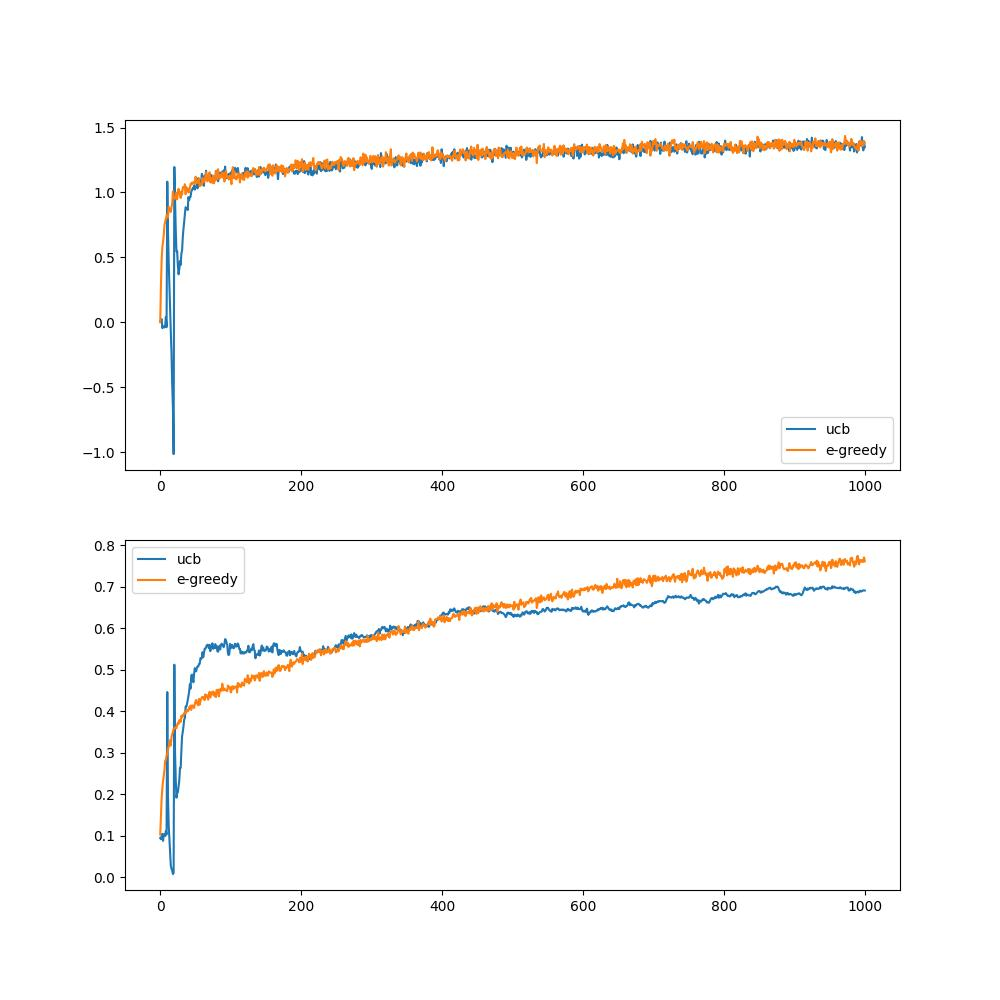
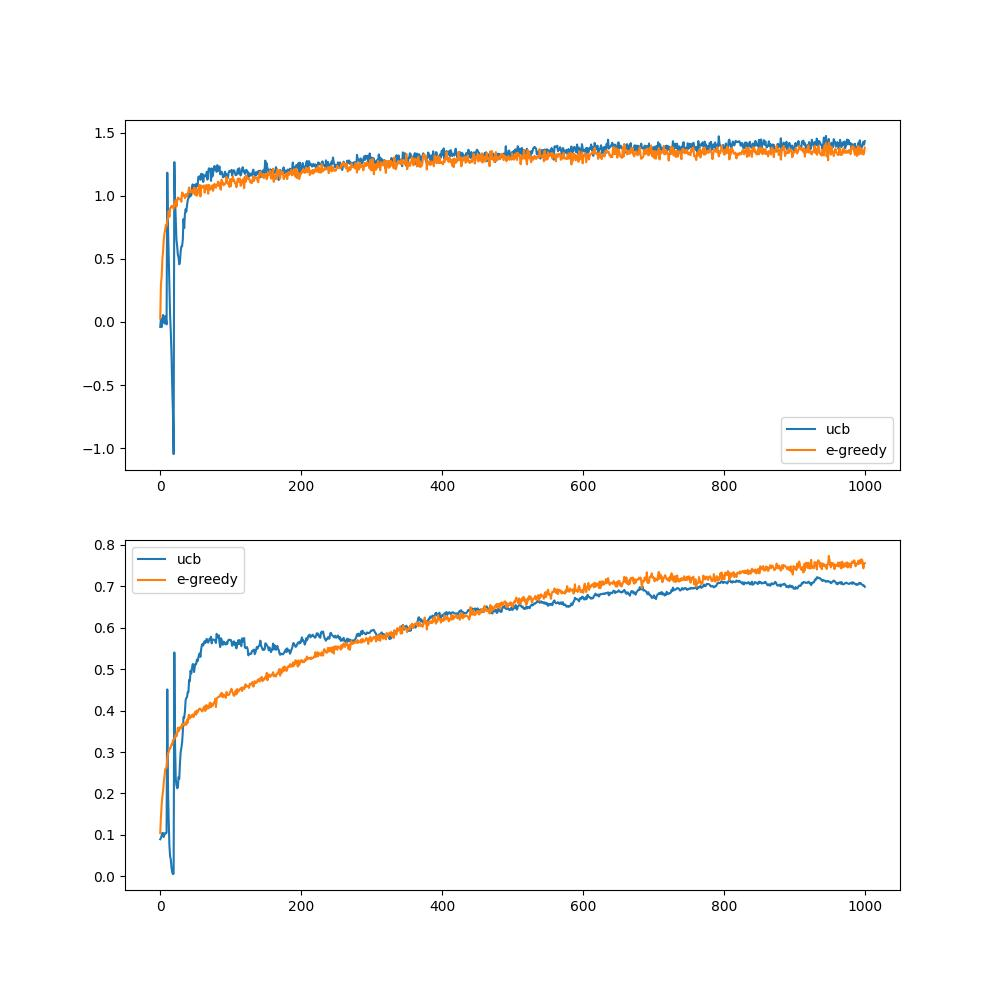
...

diff --git a/champ study/chapter02/fig_2_5_gradient.py b/champ study/chapter02/fig_2_5_gradient.py
@@ -1,0 +1,69 @@
+# created 4-Nov-2022
+# Book: Reinforcement Learning - an introduction
+# by Richard Sutton - 2nd edition
+# chapter 02 - section 2.8
+# implementing Gradient Bandit Algorithms
+# for stationary bandit problem
+
+
+import numpy as np
+from matplotlib import pyplot as plt
+from tqdm import tqdm
+
+
+class Bandit:
+    def __init__(self, n_arms, n_timesteps, q_base):
+        self.n_arms = n_arms
+        self.arms = list(range(n_arms))
+        self.q = np.random.normal(loc=q_base, scale=1, size=10)
+        self.rewards = [np.random.normal(q, 1, n_timesteps) for q in self.q]
+
+    def reward(self, arm, timestep):
+        return self.rewards[arm][timestep]
+
+
+def simulate(n_bandits=200, n_timesteps=1000, n_arms=10, alpha=0.1, base="no baseline"):
+    q_base = 0 if base == "no baseline" else 5
+    reward_grid = np.zeros((n_bandits, n_timesteps))
+    optimality_grid = np.zeros((n_bandits, n_timesteps))
+    for b in tqdm(range(n_bandits)):
+        bandit = Bandit(n_arms, n_timesteps, q_base)
+        optimal_action = np.argmax(bandit.q)
+        H = np.zeros(n_arms)
+        reward_mean = 0
+        for t in range(n_timesteps):
+            H_exp = np.exp(H)
+            Pi = H_exp / np.sum(H_exp)
+            action = np.random.choice(bandit.arms, p=Pi)
+            reward = bandit.reward(action, t)
+            reward_mean += (reward - reward_mean) / (t + 1)
+            mask = np.zeros(bandit.n_arms)
+            mask[action] = 1
+            H += alpha * (reward - reward_mean) * (mask - Pi)
+            reward_grid[b][t] = reward
+            optimality_grid[b][t] = int(action == optimal_action)
+    return reward_grid, optimality_grid
+
+
+def fig_2_3():
+    fig, ax = plt.subplots(2, 1, figsize=(10, 10))
+    alpha = [0.1, 0.4]
+    base = ["baseline", "no baseline"]
+    for b in base:
+        for a in alpha:
+            rewards, optimality = simulate(alpha=a, base=b)
+            rewards_mean = np.mean(rewards, axis=0)
+            optimal_selection = np.mean(optimality, axis=0)
+            ax[0].plot(rewards_mean, label=f'{b}, alpha={a}')
+            ax[1].plot(optimal_selection, label=f'{b}, alpha={a}')
+    ax[0].legend()
+    ax[1].legend()
+    plt.savefig('images/fig_2_5.jpg')
+
+def run(k):
+    fig_2_3()
+
+
+if __name__ == '__main__':
+    num_bandits = 10
+    run(num_bandits)

diff --git a/champ study/chapter02/fig_2_4_ucb.py b/champ study/chapter02/fig_2_4_ucb.py
@@ -12,39 +12,35 @@ from tqdm import tqdm
 
 
 class Bandit:
-    def __init__(self, n_timesteps, n_arms):
+    def __init__(self, n_arms, n_timesteps):
         self.arms = list(range(n_arms))
         self.q = np.random.normal(loc=0, scale=1, size=10)
+        self.rewards = [np.random.normal(q, 1, n_timesteps) for q in self.q]
 
-    def reward(self, arm):
-        return np.random.normal(self.q[arm], 1)
+    def reward(self, arm, timestep):
+        return self.rewards[arm][timestep]
 
 
-def simulate(n_bandits=2000, n_timesteps=1000, n_arms=10, e=0.1, alpha=0.1, act_type="e-greedy", c=2.0):
+def simulate(n_bandits=2000, n_timesteps=1000, n_arms=10, e=0.1, alpha=0.1, act_type="ucb", c=2.0):
     reward_grid = np.zeros((n_bandits, n_timesteps))
     optimality_grid = np.zeros((n_bandits, n_timesteps))
     for b in tqdm(range(n_bandits)):
-        bandit = Bandit(n_timesteps, n_arms)
+        bandit = Bandit(n_arms, n_timesteps)
         optimal_action = np.argmax(bandit.q)
         Q = np.zeros(n_arms)
-        N = np.zeros(n_arms)
-        for t in range(1, n_timesteps + 1):
-            if act_type == "e-greedy":
-                if np.random.rand() < e:
-                    action = np.random.choice(bandit.arms)
-                else:
-                    max_val = np.max(Q)
-                    action = np.random.choice(np.where(Q == max_val)[0])
-            else:
-                uncertainty = np.log(t) / (N + 0.000001)
+        N = np.ones(n_arms) * 0.000001
+        for t in range(n_timesteps):
+            if act_type == "ucb":
+                uncertainty = np.log(t+1) / N
                 ucb = Q + c * np.sqrt(uncertainty)
                 action = np.argmax(ucb)
-            reward = bandit.reward(action)
+            else:
+                action = np.random.choice(bandit.arms) if np.random.rand() < e else np.argmax(Q)
             N[action] += 1
+            reward = bandit.reward(action, t)
             Q[action] = Q[action] + alpha * (reward - Q[action])
-            reward_grid[b][t-1] = reward
-            if action == optimal_action:
-                optimality_grid[b][t-1] = 1
+            reward_grid[b][t] = reward
+            optimality_grid[b][t] = int(action == optimal_action)
     return reward_grid, optimality_grid
 
 

diff --git a/previous study/chapter02/my_chapter02.py b/previous study/chapter02/my_chapter02.py
@@ -29,8 +29,7 @@ class Bandit:
     def act(self):
         best_true_q = np.max(self.q_true)
         if self.ucb_param is not None:
-            ucb = self.q_estimated + \
-                  self.ucb_param * np.sqrt(np.log(self.t+1)/(self.action_counts + 0.00001))
+            ucb = self.q_estimated + self.ucb_param * np.sqrt(np.log(self.t+1)/(self.action_counts + 0.00001))
             max_val = np.max(ucb)
             action = np.random.choice(np.where(ucb == max_val)[0])
         elif self.is_gradient:
